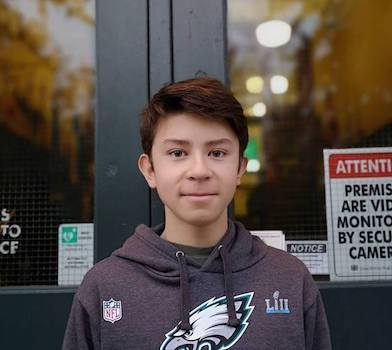
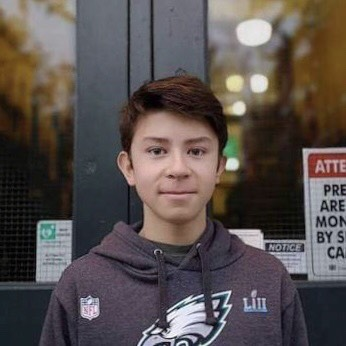
Updating pictures

diff --git a/about.html b/about.html
@@ -100,7 +100,7 @@
 	<div class = "row padding">
 		<div class = "col-md-4">
 			<div class = "card">
-				<img src = "img/team1.png" class = "card-img-top">
+				<img src = "img/calgary/kevin.jpg" class = "card-img-top">
 				<div class = "card-body">
 					<h4 class = "card-title"> Kevin Lin </h4>
 					<p class = "card-text"> Co-founder and Content Director. <br/>Webber Academy - Class of 2019. </p>
@@ -111,7 +111,7 @@
 
 		<div class = "col-md-4">
 			<div class = "card">
-				<img src = "img/team2.png" class = "card-img-top">
+				<img src = "img/calgary/runlin.jpg" class = "card-img-top">
 				<div class = "card-body">
 					<h4 class = "card-title"> RunLin Wang </h4>
 					<p class = "card-text">Co-founder and Operations Director. <br/>Sir Winston Churchill High School - Class of 2019.</p>
@@ -122,7 +122,7 @@
 
 		<div class = "col-md-4">
 			<div class = "card">
-				<img src = "img/calgary/aaron.png" class = "card-img-top">
+				<img src = "img/calgary/aaron.jpg" class = "card-img-top">
 				<div class = "card-body">
 					<h4 class = "card-title"> Aaron Abraham </h4>
 					<p class = "card-text">IT Director. <br/>Webber Academy - Class of 2019.</p>
@@ -134,7 +134,7 @@
 	<div class = "row padding">
 		<div class = "col-md-3">
 			<div class = "card">
-				<img src = "img/team1.png" class = "card-img-top">
+				<img src = "img/calgary/roy.jpg" class = "card-img-top">
 				<div class = "card-body">
 					<h4 class = "card-title"> Roy Han  </h4>
 					<p class = "card-text">Operations Director. <br/> Western Canada High School - Class of 2020. </p>
@@ -156,7 +156,7 @@
 
 		<div class = "col-md-3">
 			<div class = "card">
-				<img src = "img/calgary/michael.png" class = "card-img-top">
+				<img src = "img/calgary/michael.jpg" class = "card-img-top">
 				<div class = "card-body">
 					<h4 class = "card-title"> Michael Chan </h4>
 					<p class = "card-text">Problem Writer.<br/>Western Canada High School - Class of 2021.</p>
@@ -196,7 +196,7 @@
 	<div class = "row padding">
 		<div class = "col-md-6">
 			<div class = "card">
-				<img src = "img/edmonton/oliver.png" class = "card-img-top">
+				<img src = "img/edmonton/oliver.jpg" class = "card-img-top">
 				<div class = "card-body">
 					<h4 class = "card-title"> Oliver Cheng </h4>
 					<p class = "card-text"> Co-founder and Chief Problem Writer <br/>Old Scona Academic High School - Class of 2020 </p>
@@ -217,7 +217,7 @@
 		</div>
 
 	<div class = "row padding">
-		<div class = "col-md-4">
+		<div class = "col-md-6">
 			<div class = "card">
 				<img src = "img/edmonton/andrew.jpg" class = "card-img-top">
 				<div class = "card-body">
@@ -228,18 +228,7 @@
 			</div>
 		</div>
 
-		<div class = "col-md-4">
-			<div class = "card">
-				<img src = "img/team2.png" class = "card-img-top">
-				<div class = "card-body">
-					<h4 class = "card-title"> Jasmine Hao </h4>
-					<p class = "card-text">Problem Writer. <br/>Old Scona Academic High School - Class of 2020</p>
-					<a href = "#" class = "btn btn-outline-secondary"> See profile </a>
-				</div>
-			</div>
-		</div>
-
-		<div class = "col-md-4">
+		<div class = "col-md-6">
 			<div class = "card">
 				<img src = "img/team3.png" class = "card-img-top">
 				<div class = "card-body">
